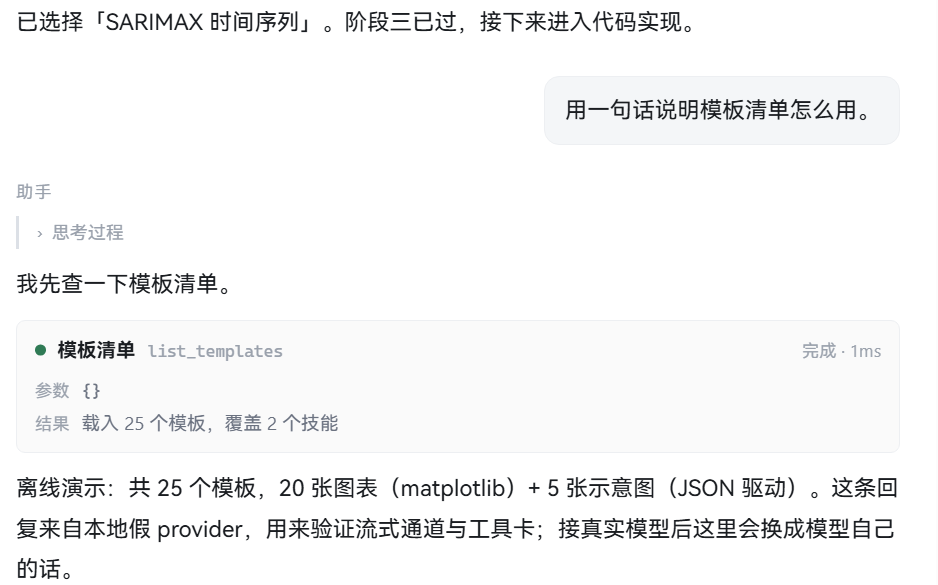
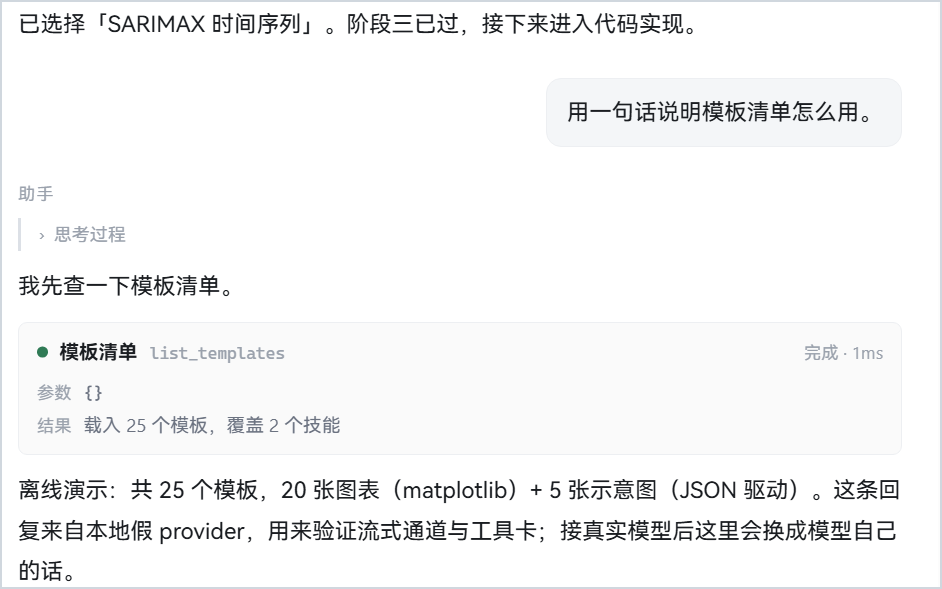
docs: 截图与架构图加边框，图注降为小字

diff --git a/README_EN.md b/README_EN.md
@@ -27,6 +27,8 @@
   <img src="docs/images/workbench.png" alt="MathModel Studio: conversation and phase rail on the left, K3 model-choice cards in the middle" width="100%">
 </p>
 
+<p align="center"><sub>Workspace: conversation and phase rail on the left, three K3 candidate cards in the middle</sub></p>
+
 > **Design principle**: anything a machine can verify goes to a gate; anything that requires judgement stays with the user, with each decision point rendered as UI.
 >
 > This tool integrates a contract-driven skill set (publication-grade figures, typesetting rules, AI-trace checks, structural audit and scoring) into a local desktop program: the model is provided by the user, data stays on the machine, and every step is auditable.
@@ -44,18 +46,18 @@ MathModel Studio targets contestants and researchers who are already working thr
 
 Screenshots come from the real UI at 1.5× pixel density: the first is a maximized window, the rest are crops from a 1440×900 window. Conversation content comes from the offline demo and contains no real problem statement or key.
 
-<img src="docs/images/decision.png" width="100%" alt="K3 model-choice cards: three candidate routes with aligned fields">
+<p align="center"><img src="docs/images/decision.png" width="100%" alt="K3 model-choice cards: three candidate routes with aligned fields"></p>
 
-Model choice: three candidate routes aligned on innovation, interpretability, implementation difficulty, estimated time, precision and robustness — choose one directly or read the explanation first.
+<p align="center"><sub>K3 model choice: three candidate routes side by side — choose one directly or read the explanation first</sub></p>
 
 | Scoring and deduction targets | Paper typesetting and PDF preview |
 | --- | --- |
 | <img src="docs/images/score.png" width="100%" alt="Five-dimension score and deduction details"> | <img src="docs/images/paper.png" width="100%" alt="Paper typesetting and PDF preview"> |
-| Five dimensions, deductions and in-text targets | xelatex → pandoc → three gates and page-level preview |
+| <sub>Five dimensions, deductions and in-text targets</sub> | <sub>xelatex → pandoc → three gates and page-level preview</sub> |
 
-<img src="docs/images/conversation.png" width="100%" alt="Conversation, tool cards and gates">
+<p align="center"><img src="docs/images/conversation.png" width="100%" alt="Conversation, tool cards and gates"></p>
 
-Conversation: streamed replies, tool cards and the four-row gate result on one timeline.
+<p align="center"><sub>Conversation: streamed replies, tool cards and the four-row gate result on one timeline</sub></p>
 
 ## Status
 

diff --git a/README.md b/README.md
@@ -27,6 +27,8 @@
   <img src="docs/images/workbench.png" alt="MathModel Studio：左侧会话与阶段轨道，中间 K3 选模卡" width="100%">
 </p>
 
+<p align="center"><sub>工作台：左侧会话与阶段轨道，中间三条候选的 K3 选模卡</sub></p>
+
 > **设计原则**：能自动校验的交给门禁，需要判断的留给人，判断点做成界面。
 >
 > 桌面程序内置一组技能（出版级图表、排版规范、AI 痕迹检查、结构自检与评分）。模型由使用者接入，数据不出本机。
@@ -44,18 +46,18 @@ MathModel Studio 面向正在推进建模工作、准备交付的参赛者与研
 
 截图来自实际界面（1.5 倍像素密度）：首图是最大化窗口，其余裁自 1440×900 窗口。会话内容来自离线演示，没有真实赛题和密钥。
 
-<img src="docs/images/decision.png" width="100%" alt="K3 选模卡：三条候选路线与字段对照">
+<p align="center"><img src="docs/images/decision.png" width="100%" alt="K3 选模卡：三条候选路线与字段对照"></p>
 
-选模：每条候选路线逐项列出创新度、可解释性、实现难度、预计耗时、精度与鲁棒性，可以直接选，也可以先看解释。
+<p align="center"><sub>K3 选模：三条候选路线逐项对比，可直接选，也可先看解释</sub></p>
 
 | 评分与扣分定位 | 论文排版与 PDF 预览 |
 | --- | --- |
 | <img src="docs/images/score.png" width="100%" alt="五维评分与扣分明细"> | <img src="docs/images/paper.png" width="100%" alt="论文排版与 PDF 预览"> |
-| 五维得分、扣分明细和正文定位 | xelatex → pandoc → 三道门禁与页级预览 |
+| <sub>五维得分、扣分明细和正文定位</sub> | <sub>xelatex → pandoc → 三道门禁与页级预览</sub> |
 
-<img src="docs/images/conversation.png" width="100%" alt="对话、工具卡与门禁">
+<p align="center"><img src="docs/images/conversation.png" width="100%" alt="对话、工具卡与门禁"></p>
 
-对话：流式回复、工具卡和四项门禁结果在同一条时间线上。
+<p align="center"><sub>对话：流式回复、工具卡和四项门禁结果在同一条时间线上</sub></p>
 
 ## 当前状态
 
